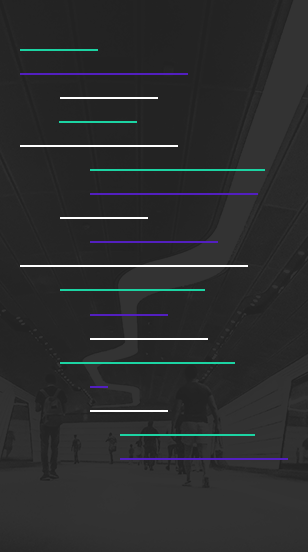
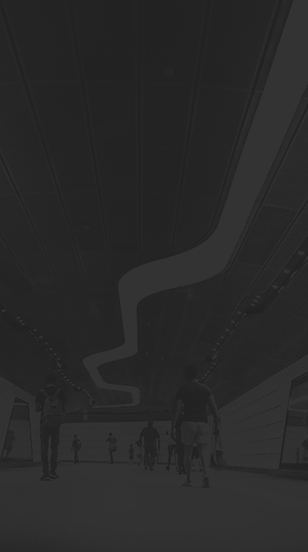
Added transition to left box (split into two divs), added left box images

diff --git a/VueJS 2/Projekty/10Clouds/src/App.vue b/VueJS 2/Projekty/10Clouds/src/App.vue
@@ -13,11 +13,10 @@
     <div class="bottom-lines"></div>
     <div class="container main-container" v-if="afterLoad">
       <div class="row no-gutters main-row align-items-center">
-        <div class="col"><button class="changer" type="button" name="button">change</button></div>
+        <div class="col"></div>
         <div class="hidden-md-down col-lg-3">
-          <div class="left-box">
-            <img src="static/img/left_box.754f4b4.png" alt="">
-          </div>
+          <div class="left-box"></div>
+          <div class="lines"></div>
         </div>
         <div class="col-xs-12 col-md-8 col-lg-5">
           <div class="right-box">
@@ -331,38 +330,8 @@
             </div>
           </div>
         </div>
-        <div class="col">
-          <ul>
-  <li>
-      <div class="cars">Cars</div>
-      <ul>
-        <li>Honda</li>
-        <li>Toyota</li>
-        <li>Fiat</li>
-      </ul>
-  </li>
-  <li>
-  	  <div>Trucks</div>
-      <ul>
-        <li>Dodge</li>
-        <li>Ford</li>
-        <li>Chevy</li>
-      </ul>
-  </li>
-  <li>
-      <div>Motorcycles</div>
-      <ul>
-        <li>Harley Davidson</li>
-        <li>Victory</li>
-        <li>Triumph</li>
-      </ul>
-  </li>
-</ul>
-        </div>
+        <div class="col"></div>
       </div>
-
-
-
     </div>
   </div>
 </div>
@@ -399,7 +368,7 @@ export default {
   mounted () {
     $(document).ready(function () {
       $('div').click(function () {
-        $('.left-box').show('slide', { direction: 'left' }, 1000)
+        $('this').addClass('big-blue', 1000, 'easeOutBounce')
       })
     })
   }
@@ -505,9 +474,21 @@ div.main-container, div.main-row {
 }
 div.left-box {
     // width: 500px;
+    position: relative;
     height: 552px;
     animation: fadeIn 1s;
-    transform-origin: 0 0;
+    transform-origin: 100% 50%;
+    background: url('../src/assets/left_box.png');
+}
+.lines {
+  position: absolute;
+  left: 0;
+  top: 0;
+  width: 100%;
+  height: 100%;
+  animation: fadeInRightBox 1.2s;
+  transform-origin: 0 50%;
+  background: url('../src/assets/LINES.png');
 }
 div.right-box {
     position: relative;
@@ -780,7 +761,7 @@ input:not([type]), input[type=text], input[type=password], input[type=email], in
   0% {
     transform: scaleX(0);
   }
-  20% {
+  30% {
     transform: scaleX(0);
   }
   100% {
@@ -800,18 +781,6 @@ input:not([type]), input[type=text], input[type=password], input[type=email], in
     left: 100%;
     opacity: 1;
   }
-}
-
-ul li ul {
-	height: 0;
-  overflow: hidden;
-  -webkit-transition: all 300ms ease;
-  -moz-transition: all 300ms ease;
-  -o-transition: all 300ms ease;
-  transition: all 300ms ease;
-}
-ul li ul.active-menu {
-	height: 60px;
 }
 
 </style>

diff --git a/VueJS 2/Projekty/10Clouds/index.html b/VueJS 2/Projekty/10Clouds/index.html
@@ -7,6 +7,7 @@
     <link rel="stylesheet" href="https://maxcdn.bootstrapcdn.com/font-awesome/4.7.0/css/font-awesome.min.css">
     <link rel="stylesheet" href="https://cdnjs.cloudflare.com/ajax/libs/materialize/0.98.1/css/materialize.min.css">
     <link rel="stylesheet" href="https://maxcdn.bootstrapcdn.com/bootstrap/4.0.0-alpha.6/css/bootstrap.min.css" integrity="sha384-rwoIResjU2yc3z8GV/NPeZWAv56rSmLldC3R/AZzGRnGxQQKnKkoFVhFQhNUwEyJ" crossorigin="anonymous">
+    <link rel="stylesheet" href="https://cdnjs.cloudflare.com/ajax/libs/jqueryui/1.12.1/jquery-ui.css">
     <script src="https://use.typekit.net/mvm5khs.js"></script>
     <script>try{Typekit.load({ async: true });}catch(e){}</script>
   </head>
@@ -18,13 +19,14 @@
       src="https://code.jquery.com/jquery-3.2.1.min.js"
       integrity="sha256-hwg4gsxgFZhOsEEamdOYGBf13FyQuiTwlAQgxVSNgt4="
       crossorigin="anonymous"></script>
+      <script src="https://cdnjs.cloudflare.com/ajax/libs/jqueryui/1.12.1/jquery-ui.min.js"></script>
     <script src="https://cdnjs.cloudflare.com/ajax/libs/tether/1.4.0/js/tether.min.js" integrity="sha384-DztdAPBWPRXSA/3eYEEUWrWCy7G5KFbe8fFjk5JAIxUYHKkDx6Qin1DkWx51bBrb" crossorigin="anonymous"></script>
     <script src="https://cdnjs.cloudflare.com/ajax/libs/materialize/0.98.1/js/materialize.min.js"></script>
 
 
 
     <script>
-    
+
     </script>
   </body>
 </html>
